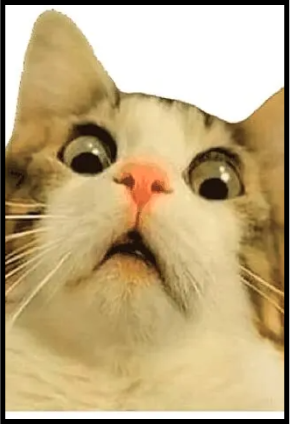
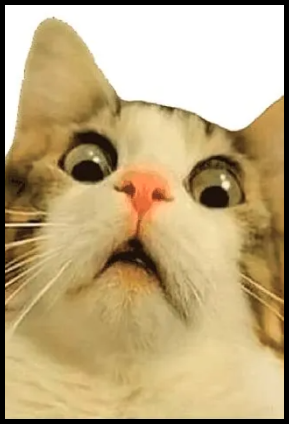
update page4 matter

diff --git a/src/components/sections/SectionFour/useMatter.js b/src/components/sections/SectionFour/useMatter.js
@@ -5,7 +5,7 @@ function getRandom() {
 }
 
 class MatterScene {
-  constructor(canvas) {
+  constructor(canvas, isMobile) {
     if (MatterScene.instance) {
       return MatterScene.instance;
     }
@@ -17,6 +17,7 @@ class MatterScene {
     this.MouseConstraint = Matter.MouseConstraint;
     this.Mouse = Matter.Mouse;
     this.Bodies = Matter.Bodies;
+    this.scale = isMobile ? 0.5 : 1;
 
     this.width = canvas.getBoundingClientRect().width;
     this.height = canvas.getBoundingClientRect().height;
@@ -36,7 +37,6 @@ class MatterScene {
 
     this.bigDiamonds = [];
     this.smDiamonds = [];
-    this.toggleTexture = true;
 
     this.initialize();
 
@@ -86,26 +86,31 @@ class MatterScene {
   }
 
   makeCircle(x, texture) {
-    return this.Bodies.circle(x, 0, 75, {
+    const size = this.scale * 75
+    return this.Bodies.circle(x, 0, size, {
       render: {
         sprite: {
           texture,
+          xScale: this.scale,
+          yScale: this.scale
         },
       },
     });
   }
 
-  makeDiamond(width, height, x, texture) {
+  makeDiamond(x, texture) {
     const vertices = [
-      { x: x, y: -height / 2 },
-      { x: x + width / 2, y: 0 },
-      { x: x, y: height / 2 },
-      { x: x - width / 2, y: 0 },
-    ];
+      { x: 147 * this.scale, y: 35 * this.scale },
+      { x: 150 * this.scale, y: 335 * this.scale },
+      { x: 49 * this.scale, y: 199 * this.scale },
+      { x: 252 * this.scale, y: 199 * this.scale }
+    ]
     return this.Bodies.fromVertices(x, 0, vertices, {
       render: {
         sprite: {
           texture,
+          xScale: this.scale,
+          yScale: this.scale
         },
       },
     });
@@ -121,42 +126,14 @@ class MatterScene {
 
     for (let j = 0; j < 3; j++) {
       const x = Math.random() * this.width;
-      const newDiamond = this.makeDiamond(200, 300, x, eth_sm);
+      const newDiamond = this.makeDiamond(x, eth_sm);
       this.smDiamonds.push(newDiamond);
       this.Composite.add(this.world, newDiamond);
     }
   }
 
-  handleTextureTransition(textureA, textureB) {
-    this.smDiamonds.forEach((diamond) => {
-      const currentTexture = this.toggleTexture ? textureA : textureB;
-      const targetTexture = this.toggleTexture ? textureB : textureA;
-
-      const steps = 10; // 简化为10步
-      const duration = 1000; // 过渡时长 1000 ms
-      const interval = duration / steps;
-      let alpha = 0;
-
-      // 用于修改透明度效果
-      const transition = setInterval(() => {
-        alpha += 1 / steps;
-        diamond.render.sprite.opacity = alpha; // 更新透明度
-        diamond.render.sprite.texture = currentTexture;
-
-        if (alpha >= 1) {
-          clearInterval(transition);
-
-          // 在过渡完成后改变为目标纹理
-          diamond.render.sprite.texture = targetTexture;
-          diamond.render.sprite.opacity = 1.0; // 确保透明度回归满值
-        }
-      }, interval);
-    });
-
-    this.toggleTexture = !this.toggleTexture;
-  }
 }
 
-export const init = (canvas) => {
-  return new MatterScene(canvas);
+export const init = (canvas, isMobile) => {
+  return new MatterScene(canvas, isMobile);
 };

diff --git a/src/components/core/Popover.jsx b/src/components/core/Popover.jsx
@@ -16,6 +16,10 @@ const Popover = forwardRef(({ isLoading, isMobile, isScrolling, currentSection }
     text: ''
   })
   useEffect(() => {
+    if ((isLoading || isScrolling) && _timer) {
+      clearTimeout(_timer)
+      _timer = null;
+    }
     if (!isLoading && !isScrolling && !_timer) {
       if (currentSection === 1) {
         _timer = setTimeout(() => {
@@ -54,11 +58,6 @@ const Popover = forwardRef(({ isLoading, isMobile, isScrolling, currentSection }
     <AnimatePresence>
       {
         show && (
-          <motion.div className="fixed inset-0 bg-black/90 z-[1999] flex justify-center items-center w-screen h-screen"
-            id='popover'
-            animate={{visibility: 'visible'}}
-            exit={{ visibility: 'hidden' }}
-          >
             <motion.div
               key="motionKey"
               initial={{ opacity: 0, x: 100 }}
@@ -69,9 +68,11 @@ const Popover = forwardRef(({ isLoading, isMobile, isScrolling, currentSection }
                 opacity: { duration: 0.5 },
                 rotate: { duration: 0.25, repeat: Infinity, repeatType: 'loop', ease: 'linear' }
               }}
-              className={`uppercase relative w-[428px] h-[298px] px-6 bg-${config.bg} z-[2000] text-white border-black pt-14 pb-10`}
+              className={`uppercase fixed w-[428px] h-[298px] px-6 bg-${config.bg} z-[2000] text-white border-black pt-14 pb-10`}
               id="popover"
               style={{
+                top: 'calc(50% - 149px)',
+                left: 'calc(50% - 214px)',
                 borderWidth: '5px',
                 boxShadow: '-8px 8px 0px #000',
                 scale: isMobile ? 0.75 : 1
@@ -87,7 +88,6 @@ const Popover = forwardRef(({ isLoading, isMobile, isScrolling, currentSection }
               </div>
 
             </motion.div>
-          </motion.div>
         )
       }
     </AnimatePresence>

diff --git a/src/components/sections/SectionFour/MatterCanvas.jsx b/src/components/sections/SectionFour/MatterCanvas.jsx
@@ -1,26 +1,14 @@
-import { forwardRef, useEffect, useImperativeHandle, useRef, useState } from 'react';
+import { forwardRef, useEffect, useImperativeHandle, useRef } from 'react';
 import { init } from './useMatter'
 import useResourceByName, { RESOURCE_TYPES } from '../../../hook/useResourceByName';
-const MatterCanvas = forwardRef(({ colorIndex }, ref) => {
+const MatterCanvas = forwardRef(({ isMobile }, ref) => {
   
   const matter = useRef(null)
   const canvasRef = useRef(null);
   const circle_black = useResourceByName('circle_black.png', RESOURCE_TYPES.IMAGE);
   const circle_white = useResourceByName('circle_white.png', RESOURCE_TYPES.IMAGE);
   const eth_sm = useResourceByName('eth_sm.png', RESOURCE_TYPES.IMAGE);
-  const eth_sm_gray = useResourceByName('eth_sm_gray.png', RESOURCE_TYPES.IMAGE);
-  const [changeCount, setChangeCount] = useState(0);
-  useEffect(() => {
-    setChangeCount(prevCount => prevCount + 1);
-  }, [colorIndex]);
-  useEffect(() => {
-    if (changeCount > 0 && changeCount % 2 === 0) {
-      if (matter.current, eth_sm, eth_sm_gray) {
-        matter.current.handleTextureTransition(eth_sm, eth_sm_gray);
-      }
-      setChangeCount(0);
-    }
-  }, [changeCount, matter, eth_sm, eth_sm_gray]);
+
   useImperativeHandle(ref, () => ({
     addBox: () => {
       if (matter.current) {
@@ -30,7 +18,7 @@ const MatterCanvas = forwardRef(({ colorIndex }, ref) => {
   }));
 
   useEffect(() => {
-    matter.current = init(canvasRef.current)
+    matter.current = init(canvasRef.current, isMobile)
   }, [])
  
   return (

diff --git a/src/components/core/LoadingScreen.jsx b/src/components/core/LoadingScreen.jsx
@@ -32,18 +32,19 @@ const LoadingScreen = ({ isLoading, progress, isMobile }) => {
       document.body.style.cursor = "none";
     }
   }, [afterLoading]);
+  const exitAni = isMobile ? { y: "-100vh" } : { x: "100vw" };
   return (
     <AnimatePresence>
       {afterLoading && (
         <motion.div
           className="bg-white w-screen h-screen fixed z-[1000] flex items-center justify-center"
-          initial={{ x: 0 }} 
-          exit={{ x: "100vw" }}
+          initial={{ x: 0, y: 0 }} 
+          exit={exitAni}
           transition={{ duration: 0.5 }}
         >
           <div className="relative flex justify-center">
             <motion.div
-              className='w-1/4'
+              className={isMobile ? 'w-1/4' : 'w-1/12'}
               initial={{ opacity: 0 }} 
               animate={{ opacity: 1 }}
               transition={{ duration: 0.5 }}

diff --git a/src/components/sections/SectionFour.jsx b/src/components/sections/SectionFour.jsx
@@ -163,14 +163,18 @@ const SectionFour = ({ currentSection, isMobile }) => {
             ref.current.addBox();
           }}
           onClick={() => {
-            ref.current.addBox();
-            ref.current.addBox();
+            if (isMobile) {
+              ref.current.addBox();
+            } else {
+              ref.current.addBox();
+              ref.current.addBox();
+            }
           }}
         >
           <AnimationButton showButton={showButton} />
         </div>
       </div>
-      <MatterCanvas ref={ref} colorIndex={colorIndex}/>
+      <MatterCanvas ref={ref} colorIndex={colorIndex} isMobile={isMobile} />
     </div>
   );
 };
